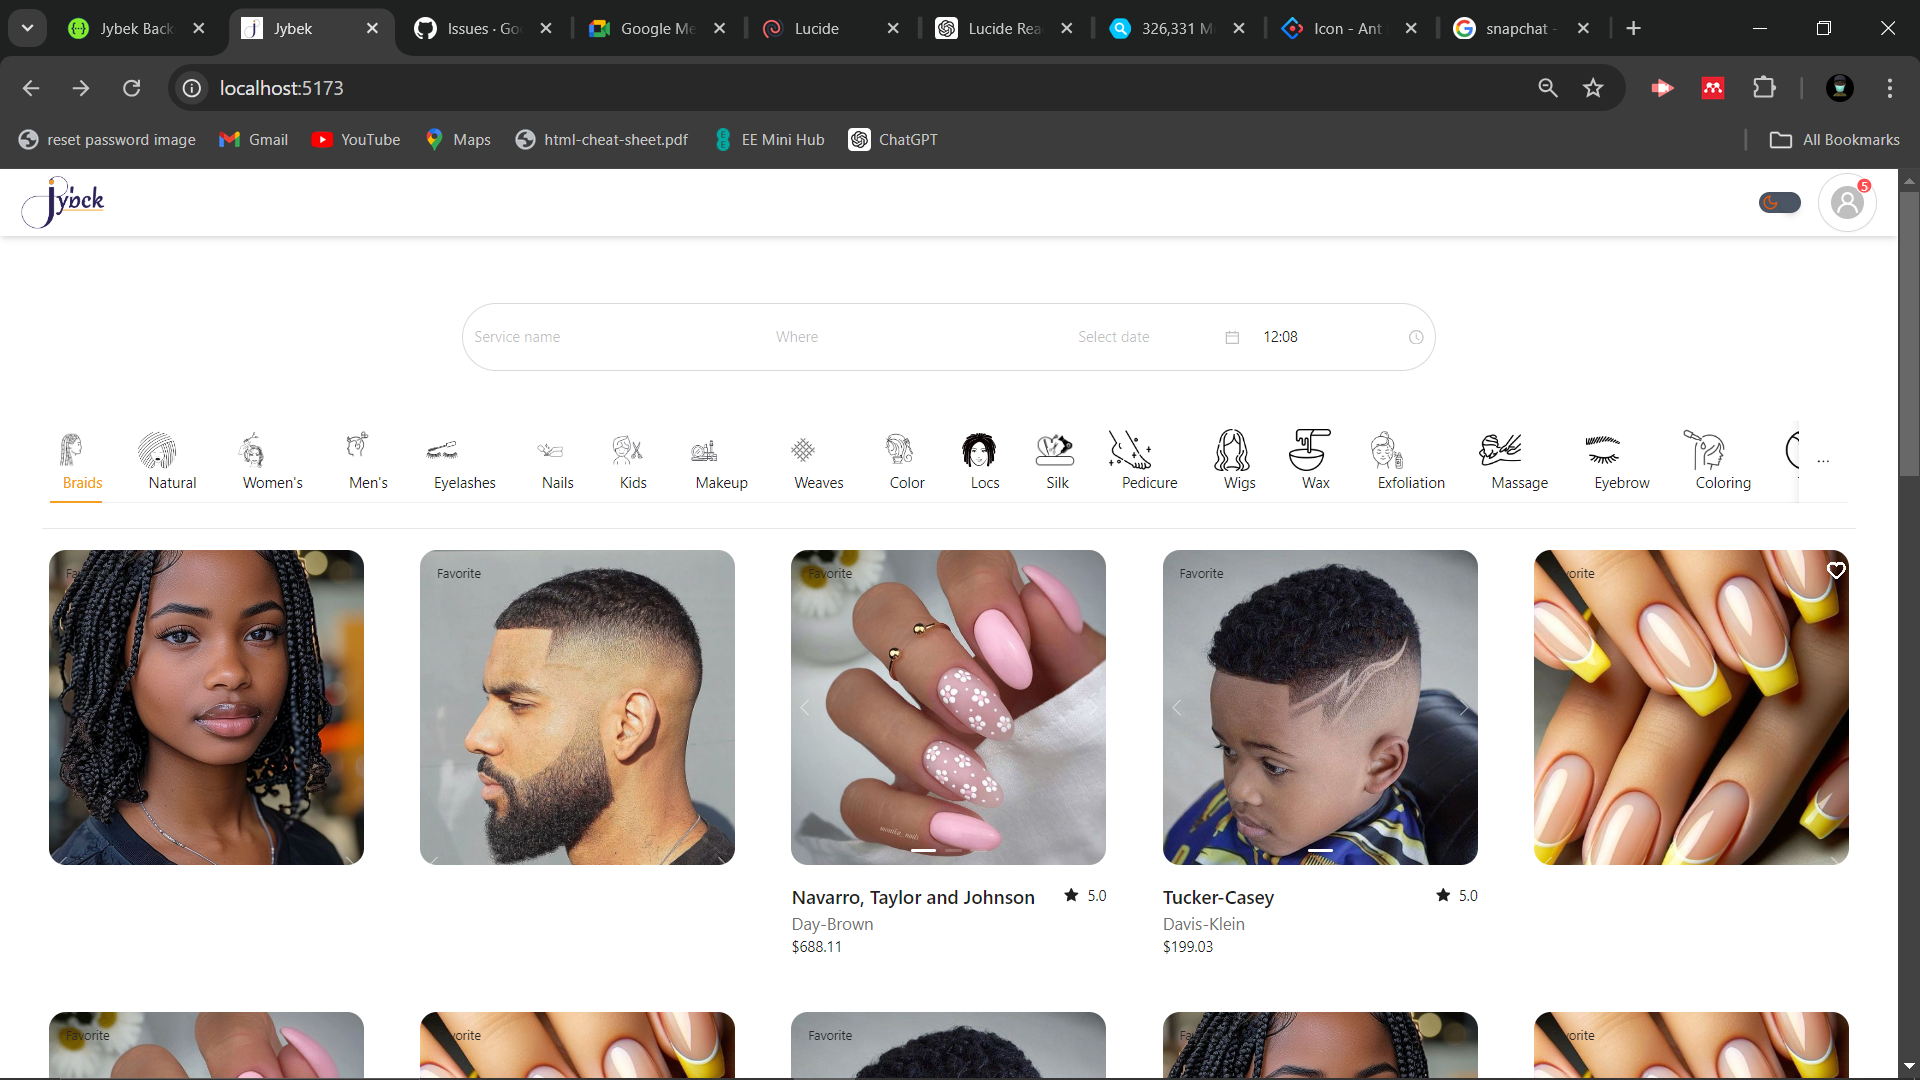
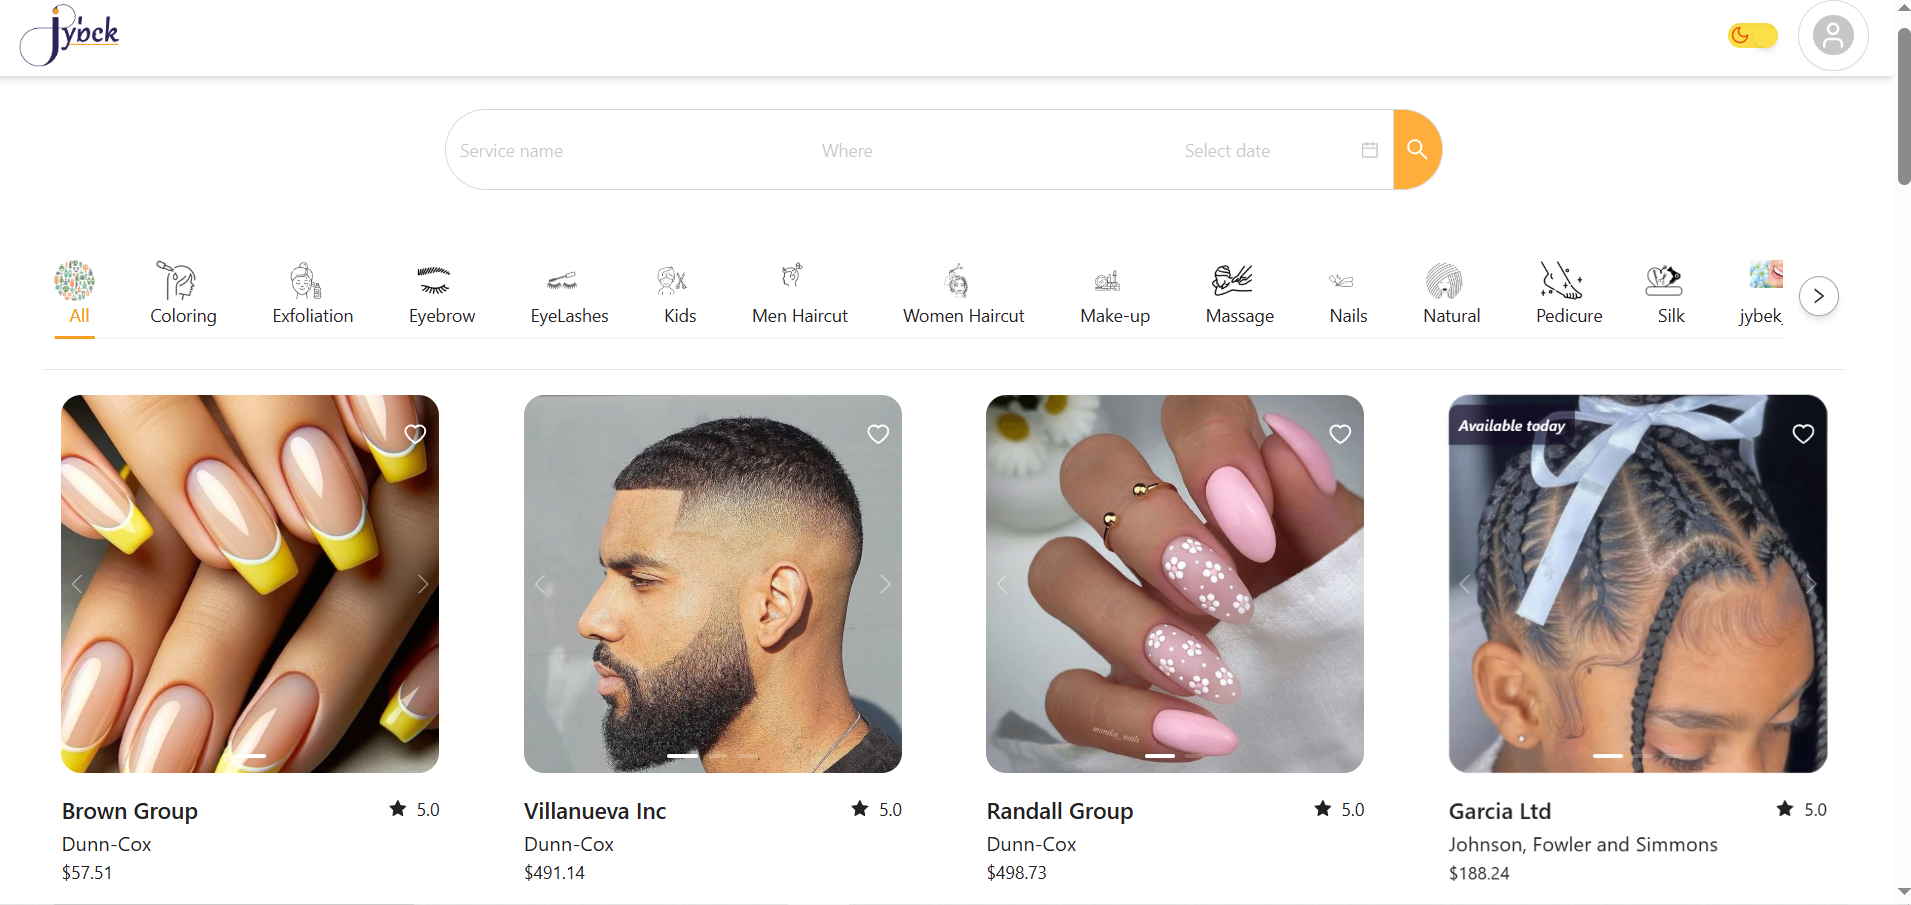
new update

diff --git a/src/components/Pages/ContactMe.jsx b/src/components/Pages/ContactMe.jsx
@@ -1,9 +1,89 @@
+import { useState } from "react";
 
 const ContactMe = () => {
-  return(
-    <div>
-      Contact Me page
+  const [formData, setFormData] = useState({
+    name: "",
+    email: "",
+    subject: "",
+    message: "",
+  });
+
+  const [errors, setErrors] = useState({
+    name: false,
+    email: false,
+    subject: false,
+    message: false,
+  });
+
+  const handleChange = (e) => {
+    setFormData({ ...formData, [e.target.name]: e.target.value });
+    setErrors({ ...errors, [e.target.name]: false });
+  };
+
+  const handleSubmit = (e) => {
+    e.preventDefault();
+
+    const newErrors = {
+      name: formData.name.trim() === "",
+      email: formData.email.trim() === "",
+      subject: formData.subject.trim() === "",
+      message: formData.message.trim() === "",
+    };
+    setErrors(newErrors);
+
+    if (Object.values(newErrors).includes(true)) {
+      return;
+    }
+
+    const mailtoLink = `mailto:emmsom506@gmail.com?subject=${encodeURIComponent(formData.subject)}&body=${encodeURIComponent(`From: ${formData.name} <${formData.email}>\n\n${formData.message}`)}`;
+    window.location.href = mailtoLink;
+  };
+
+  return (
+    <div className="flex flex-col items-center relative py-10">
+      <h3 className="text-balance font-semibold text-lg sm:text-2xl md:text-5xl max-w-[40rem] text-center">
+       <span className={"font-mono"}>
+          Ready to take your digital presence to the next level?
+       </span>
+      </h3>
+      <p className="md:mt-10 my-5 text-center text-balance">
+        Don't settle for "good enough" - let's make it great!
+      </p>
+      <form onSubmit={handleSubmit} className="max-w-xl w-full mx-auto rounded-2xl px-8 py-14 border border-purple-400 shadow-sm mt-10 z-10 space-y-8">
+
+        <div className="flex flex-col space-y-1 w-full mb-6">
+          <label className="font-medium" htmlFor="name">Name</label>
+          <input type="text" id="name" name="name" value={formData.name} onChange={handleChange} className="p-2 rounded-md text-black" placeholder="Your name..." />
+          {errors.name && <p className="text-red-500 text-sm">Name is required</p>}
+        </div>
+
+        <div className="flex flex-col space-y-1 w-full mb-6">
+          <label className="font-medium " htmlFor="email">Email Address</label>
+          <input type="email" id="email" name="email" value={formData.email} onChange={handleChange} className="p-2 rounded-md text-black" placeholder="jondoe@gmail.com" />
+          {errors.email && <p className="text-red-500 text-sm">Email is required</p>}
+        </div>
+
+        <div className="flex flex-col space-y-1 w-full mb-6">
+          <label className="font-medium" htmlFor="subject">Subject</label>
+          <input type="text" id="subject" name="subject" value={formData.subject} onChange={handleChange} className="p-2 rounded-md text-black" placeholder="Your subject matter..." />
+          {errors.subject && <p className="text-red-500 text-sm">Subject is required</p>}
+        </div>
+
+        <div className="flex flex-col space-y-1 w-full mb-8">
+          <label className="font-medium" htmlFor="message">Message</label>
+          <textarea rows={3} id="message" name="message" value={formData.message} onChange={handleChange} className=" rounded-md text-black" placeholder="Your message..."></textarea>
+          {errors.message && <p className="text-red-500 text-sm">Message is required</p>}
+        </div>
+
+        <button type="submit" className="bg-gradient-to-r from-[#79096d] via-[#00d4ff] to-[#79096d] bg-[length:200%_100%] shadow-lg shadow-black-100 animate-shimmer w-full h-14 rounded-lg flex items-center justify-center group cursor-pointer">
+          <span>Send a message</span>
+          <svg stroke="currentColor" fill="currentColor" strokeWidth="0" viewBox="0 0 448 512" className="group-hover:translate-x-2 transition duration-500 ml-1" height="1em" width="1em" xmlns="http://www.w3.org/2000/svg">
+            <path d="M438.6 278.6c12.5-12.5 12.5-32.8 0-45.3l-160-160c-12.5-12.5-32.8-12.5-45.3 0s-12.5 32.8 0 45.3L338.8 224H32c-17.7 0-32 14.3-32 32s14.3 32 32 32h306.7L233.4 393.4c-12.5 12.5-12.5 32.8 0 45.3s32.8 12.5 45.3 0l160-160z" />
+          </svg>
+        </button>
+      </form>
     </div>
-  )
-}
+  );
+};
+
 export default ContactMe;

diff --git a/src/components/ui/socials.jsx b/src/components/ui/socials.jsx
@@ -1,22 +1,41 @@
-import {InstagramOutlined, LinkedinOutlined, MediumOutlined, TwitterOutlined} from "@ant-design/icons";
-import React from "react";
-
+import React from 'react';
+import {FaMedium, FaLinkedin, FaGithub, FaEnvelope} from 'react-icons/fa';
 
 export const Socials = () => {
   return (
-    <div className="items-center flex space-x-4 pt-4">
-      <p
-        className={"flex items-center justify-center p-2 rounded-full shadow-md bg-blue-400 border border-neutral-600"}>
-        <LinkedinOutlined/></p>
-      <p
-        className={"flex items-center justify-center p-2 rounded-full shadow-md bg-blue-400 border border-neutral-600"}>
-        <TwitterOutlined/></p>
-      <p
-        className={"flex items-center justify-center p-2 rounded-full shadow-md bg-blue-400 border border-neutral-600"}>
-        <MediumOutlined/></p>
-      <p
-        className={"flex items-center justify-center p-2 rounded-full shadow-md bg-blue-400 border border-neutral-600"}>
-        <InstagramOutlined/></p>
+    <div className="flex items-center space-x-4">
+      <a
+        href="mailto:emmsom506@gmail.com"
+        className="p-2 rounded-full shadow-md bg-red-500 text-white"
+        aria-label="Email"
+      >
+        <FaEnvelope size={20}/>
+      </a>
+      <a
+        href="https://medium.com/@tHEDUO34"
+        target="_blank"
+        rel="noopener noreferrer"
+        className="p-2 rounded-full shadow-md bg-black text-white"
+      >
+        <FaMedium size={20}/>
+      </a>
+      <a
+        href="https://www.linkedin.com/in/somuah-emmanuel-66111a1b9/"
+        target="_blank"
+        rel="noopener noreferrer"
+        className="p-2 rounded-full shadow-md bg-blue-700 text-white"
+      >
+        <FaLinkedin size={20}/>
+      </a>
+      <a
+        href="https://github.com/theduo34"
+        target="_blank"
+        rel="noopener noreferrer"
+        className="p-2 rounded-full shadow-md bg-gray-800 text-white"
+      >
+        <FaGithub size={20}/>
+      </a>
     </div>
-  )
-}
+  );
+};
+

diff --git a/src/components/Pages/Projects.jsx b/src/components/Pages/Projects.jsx
@@ -8,21 +8,29 @@ const myProjects = [
     description: "A platform connecting beauty service providers and clients for stress-free appointments. Used for service advertising, appointment booking, location-based search, and flexible scheduling.",
     liveSiteUrl: "https://jybek.com",
     projectImage: 'jybek',
-    technologies: ["react", "tailwind", "typescript", "nodejs", "mongodb"],
+    technologies: ["react", "tailwind", "typescript", "django", "postgreSQL"],
   },
   {
     id: 'kofcityJobCenter',
     title: "Kofcity Job Center",
     description: "A job search platform tailored to job seekers and employers in Koforidua and beyond. User for job listings, applications, and tailored career recommendations. ",
-    liveSiteUrl: "https://kofcity-job-center.com",
-    projectImage: 'jybek',
+    liveSiteUrl: "https://github.com/theduo34/kofcity-job-center",
+    projectImage: 'kjc2',
     technologies: ["react", "tailwind", "typescript", "nodejs", "mongodb"],
+  },
+  {
+    id: 'tastyTales',
+    title: "Tasty Tales App",
+    description: "A job search platform tailored to job seekers and employers in Koforidua and beyond. User for job listings, applications, and tailored career recommendations. ",
+    liveSiteUrl: "https://github.com/theduo34/tasty-tales",
+    projectImage: 'tastyTales',
+    technologies: ["nextjs", "tailwind", "typescript", "postgreSQL"],
   },
   {
     id: "we'dens",
     title: "We'dens Dental App",
     description: "A Java-based application that connects clients to dental centers and offers dental health tips. Improved accessibility to dental care and promoted better dental hygiene practices",
-    liveSiteUrl: "https://jybek.com",
+    liveSiteUrl: "https://github.com/theduo34/we-dens",
     projectImage: 'wedens',
     technologies: ["java", "javafx", "mongodb"],
   },

diff --git a/src/components/Pages/Experience.jsx b/src/components/Pages/Experience.jsx
@@ -1,10 +1,47 @@
+import { ExperienceCard } from "../ui/experience";
 
+const experiences = [
+  {
+    title: "Doltech Ltd | Frontend Developer",
+    description:
+      "Designed and implemented the UI/UX for a cashless toll system, enhancing efficiency with AI-powered solutions.",
+    imageSrc: "frontend",
+  },
+  {
+    title: "Kornel Growth Agency | Frontend Developer",
+    description:
+      "Built a secure investment platform for property and asset management, improving financial tracking for users.",
+    imageSrc: "frontend",
+  },
+  {
+    title: "Goodwill Systems | Frontend Developer",
+    description:
+      "Implemented SEO optimization techniques, increasing search engine rankings and user engagement.",
+    imageSrc: "frontend",
+  },
+];
 
 const Experience = () => {
-  return(
+  return (
     <div>
-      My experince
+      <h3 className="flex items-center justify-center md:justify-start leading-normal font-mono text-2xl lg:text-4xl">
+        <span className="font-semibold leading-tight">
+          <span className="font-mono">My Work Experience</span>
+        </span>
+      </h3>
+
+      <div className="grid grid-cols-1 md:grid-cols-2 gap-8 pt-8">
+        {experiences.map((experience, index) => (
+          <ExperienceCard
+            key={index}
+            title={experience.title}
+            description={experience.description}
+            imageSrc={experience.imageSrc}
+          />
+        ))}
+      </div>
     </div>
-  )
-}
+  );
+};
+
 export default Experience;

diff --git a/src/components/Pages/Home.jsx b/src/components/Pages/Home.jsx
@@ -1,7 +1,10 @@
 import React from 'react';
-import {MyButton} from "../ui/button";
+import {FadeButton, MyButton} from "../ui/button";
 
 const Home = ({onClick}) => {
+    const handleResumeClick = () => {
+        window.location.href = "https://drive.google.com/file/d/1gNPEfSf05GFnpXTLHfQpEQBwrzhxqsO8/view?usp=drive_link";
+    }
     return (
         <div
             className="w-full flex items-center justify-between flex-col md:flex-row gap-8 py-[8%]">
@@ -18,15 +21,17 @@ const Home = ({onClick}) => {
                 </p>
 
                 <div className="flex items-center font-semibold pt-8  gap-8">
-                    <MyButton title={'See my works'} onClick={onClick}/>
+                    <FadeButton title={"See my works"} onClick={onClick} />
+                    <FadeButton title={'See my resume'} onClick={handleResumeClick}/>
                 </div>
             </div>
 
-            <div className="flex items-center justify-center rounded-full border-animate">
+            <div className="flex items-center justify-center w-96 h-96 rounded-full border overflow-hidden">
                 <img
-                  className="rounded-full w-96 h-96"
-                  src="/images/profilepics/picture2%20(2).png"
+                  className="w-full h-full"
+                  src="/images/profilepics/pp.png"
                   alt="Profile"
+
                 />
             </div>
         </div>

diff --git a/src/components/ui/experience.jsx b/src/components/ui/experience.jsx
@@ -1,0 +1,25 @@
+export const ExperienceCard = ({ title, description, imageSrc }) => {
+  return (
+    <div
+      className="relative bg-slate-900/[0.8] backdrop-blur-xl flex items-center justify-center w-full h-full text-sm antialiased flex-1 bg-[linear-gradient(90deg,rgba(4,7,29,1),0%,rgba(12,14,35,1),100%)] p-4 transition-transform translate-y-1 hover:scale-110 duration-300"
+      style={{ borderRadius: "calc(1.75rem * 0.96)" }}
+    >
+      <div className="w-full flex lg:flex-row flex-col lg:items-center p-3 py-6 md:p-5 lg:p-10 gap-2">
+        <img
+          alt={title}
+          loading="lazy"
+          width={128}
+          height={128}
+          decoding="async"
+          className="w-32 h-32 rounded-full object-cover"
+          style={{ color: "transparent" }}
+          src={`images/experience/${imageSrc}.png`}
+        />
+        <div className="lg:ms-5">
+          <h3 className="text-xl md:text-lg font-bold text-start">{title}</h3>
+          <p className="text-start mt-3">{description}</p>
+        </div>
+      </div>
+    </div>
+  );
+};

diff --git a/src/components/ui/about.jsx b/src/components/ui/about.jsx
@@ -3,11 +3,11 @@ import React from "react";
 export const AboutCard = ({ title, description, icon,  className = "" }) => {
   return (
     <div
-      className={`relative p-4 lg:p-8 rounded-xl border bg-opacity-80 backdrop-blur-lg shadow-lg transition-all duration-300 transform hover:-translate-y-1 hover:shadow-2xl hover:border-purple-400 overflow-hidden ${className}`}
+      className={`relative p-4 lg:p-12 rounded-2xl bg-slate-900/[0.8] backdrop-blur-xl shadow-lg transition-transform translate-y-1 hover:scale-110 duration-300 hover:shadow-2xl hover:border-purple-400 overflow-hidden bg-[linear-gradient(90deg,rgba(4,7,29,1),0%,rgba(12,14,35,1),100%)] ${className}`}
     >
       <div className="relative z-10 flex items-center space-x-4">
         <div className="p-3 rounded-full bg-purple-100 text-4xl text-purple-600 shadow-sm">{icon}</div>
-        <h4 className="text-lg md:text-xl font-semibold text-purple-400">
+        <h4 className="text-lg md:text-xl font-semibold">
           <span className={"font-mono"}>
             {title}
           </span>

diff --git a/src/App.jsx b/src/App.jsx
@@ -5,6 +5,7 @@ import { FadeButton } from "./components/ui/button";
 import Experience from "./components/Pages/Experience";
 import About from "./components/Pages/About";
 import ContactMe from "./components/Pages/ContactMe";
+import FooterPage from "./components/Pages/Footer";
 
 const App = () => {
     const [isMobileMenuOpen, setIsMobileMenuOpen] = useState(false);
@@ -63,7 +64,7 @@ const App = () => {
           </nav>
 
           {/* Page Content */}
-          <div className="relative w-full items-center px-4 lg:px-[14%] pt-24 z-10">
+          <div className="relative w-full items-center px-4 lg:px-[14%] pt-24 z-10 space-y-10">
               <section id="home">
                   <Home onClick={() => scrollTo("projects")} />
               </section>
@@ -78,6 +79,9 @@ const App = () => {
               </section>
               <section id={"contactMe"}>
                   <ContactMe />
+              </section>
+              <section id={"footer"}>
+                  <FooterPage/>
               </section>
           </div>
 

diff --git a/src/components/Pages/Footer.jsx b/src/components/Pages/Footer.jsx
@@ -1,0 +1,15 @@
+import {Socials} from "../ui/socials";
+
+
+const FooterPage = () => {
+  const date = new Date();
+  return(
+    <div className='flex flex-col md:flex-row items-center justify-center gap-8 pb-2'>
+      <div>{`© Emmanuel Somuah ${date.getUTCFullYear()}`}</div>
+      <div>
+        <Socials/>
+      </div>
+    </div>
+  )
+}
+export default FooterPage
